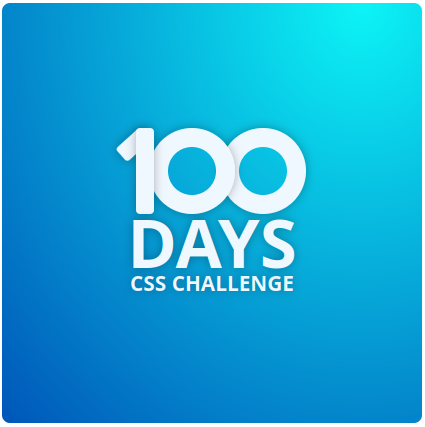
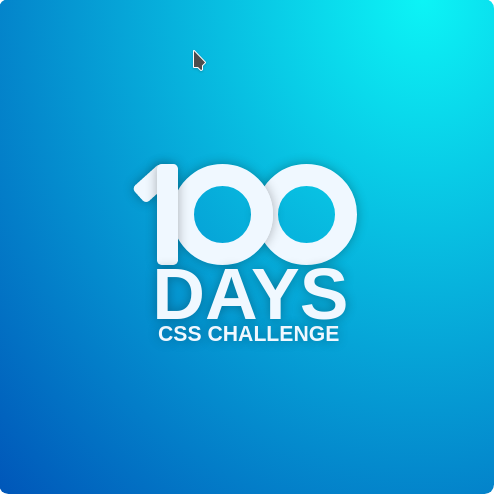
style: Alterações no CSS

Changed region(s): [[0.2753, 0.274, 0.7341, 0.7002], [0.0, 0.0, 1.0, 1.0], [0.3671, 0.0913, 0.4282, 0.1522]]

diff --git a/day_001/style.css b/day_001/style.css
@@ -51,7 +51,7 @@
 
 .num_0_1, .num_0_2 {
   background-color: transparent;
-  border: 2.1vh solid aliceblue;
+  border: 19px solid aliceblue;
   border-radius: 50%;
   box-shadow: 0 0 10px rgba(0, 0, 0, 0.3);
   height: 48px;
@@ -71,11 +71,12 @@
   text-shadow: 0 0 10px rgba(0, 0, 0, 0.3);
   color: aliceblue;
   font-family: 'Lucida Sans', 'Lucida Sans Regular', 'Lucida Grande', 'Lucida Sans Unicode', Geneva, Verdana, sans-serif;
-  font-size: 4.2rem;
+  font-size: 62px;
   font-weight: 800;
+  left: 130px;
   position: absolute;
   text-transform: uppercase;
-  top: 46%;
+  top: 215px;
   z-index: 8;
 }
 
@@ -83,7 +84,10 @@
   text-shadow: 0 0 10px rgba(0, 0, 0, 0.3);
   color: aliceblue;
   font-family: 'Lucida Sans', 'Lucida Sans Regular', 'Lucida Grande', 'Lucida Sans Unicode', Geneva, Verdana, sans-serif;
-  font-size: 1.3rem;
+  font-size: 18px;
   font-weight: 800;
+  left: 135px;
   text-transform: uppercase;
+  position: absolute;
+  top: 274px;
 }
